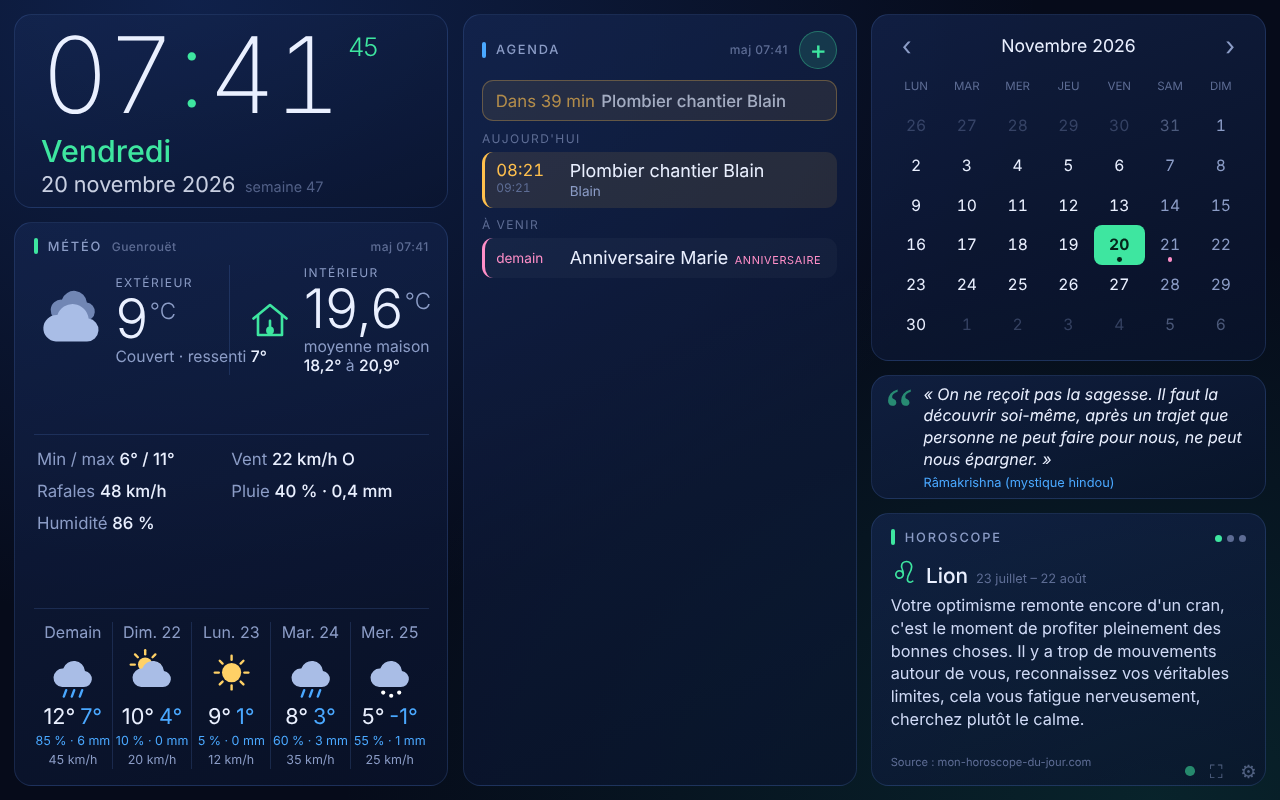
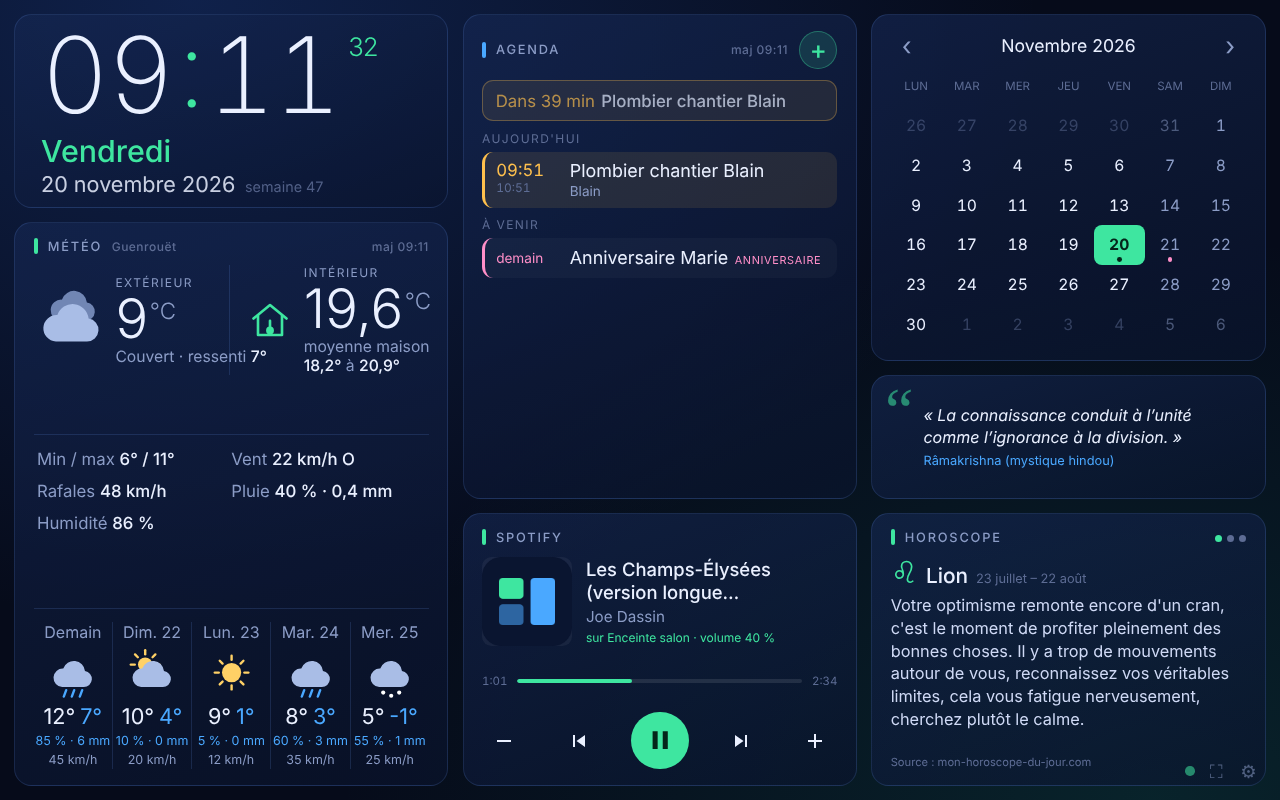
Spotify : lecture en cours et télécommande (moteur + écran), guide d'installation
Claude-Session: https://claude.ai/code/session_01EAZNttDNipT1W6GGXRZqMs

diff --git a/js/spotify.js b/js/spotify.js
@@ -1,0 +1,127 @@
+/* Spotify : lecture en cours et télécommande (via le moteur Google).
+   La musique sort de l'appareil où Spotify joue (tablette, téléphone, enceinte...). */
+var Spotify = (function () {
+  var st = null;          /* dernier état reçu */
+  var timer = null, tick = null;
+  var busy = false;
+
+  var ICON = {
+    prev: '<svg viewBox="0 0 24 24"><path d="M6 6h2v12H6zM9.5 12l8.5 6V6z" fill="currentColor"/></svg>',
+    next: '<svg viewBox="0 0 24 24"><path d="M16 6h2v12h-2zM6 18l8.5-6L6 6z" fill="currentColor"/></svg>',
+    play: '<svg viewBox="0 0 24 24"><path d="M8 5v14l11-7z" fill="currentColor"/></svg>',
+    pause: '<svg viewBox="0 0 24 24"><path d="M6 5h4v14H6zM14 5h4v14h-4z" fill="currentColor"/></svg>',
+    minus: '<svg viewBox="0 0 24 24"><path d="M5 11h14v2H5z" fill="currentColor"/></svg>',
+    plus: '<svg viewBox="0 0 24 24"><path d="M11 5h2v6h6v2h-6v6h-2v-6H5v-2h6z" fill="currentColor"/></svg>',
+    note: '<svg viewBox="0 0 24 24"><path d="M9 17.5a2.5 2.5 0 1 1-2-2.45V5l11-2v11.5a2.5 2.5 0 1 1-2-2.45V6.4l-7 1.3z" fill="currentColor"/></svg>'
+  };
+
+  function mmss(ms) { var s = Math.max(0, Math.floor(ms / 1000)); return Math.floor(s / 60) + ":" + U.pad(s % 60); }
+  function pos() {
+    if (!st || !st.active) return 0;
+    var p = st.progress + (st.playing ? Date.now() - st.at : 0);
+    return Math.min(p, st.duration);
+  }
+
+  function render() {
+    var el = U.$("sp-body");
+    if (!API.isLive()) {
+      el.innerHTML = '<div class="sp-idle">' + ICON.note + '<div>La musique en cours s\'affichera ici une fois Spotify relié.<span class="demo-tag">démo</span></div></div>';
+      return;
+    }
+    if (!st) { el.innerHTML = '<div class="loading">Chargement…</div>'; return; }
+    if (!st.linked) {
+      el.innerHTML = '<div class="sp-idle">' + ICON.note + '<div>Spotify n\'est pas encore relié.<br><small>Voir le guide d\'installation, partie Spotify.</small></div></div>';
+      return;
+    }
+    if (!st.active) {
+      var devs = (st.devices || []).map(function (d) {
+        return '<button class="sp-dev" data-dev="' + U.esc(d.id) + '">' + ICON.play + U.esc(d.name) + "</button>";
+      }).join("");
+      el.innerHTML = '<div class="sp-idle">' + ICON.note + "<div>Rien en lecture." +
+        (devs ? "<br><small>Lancer sur :</small>" : "<br><small>Ouvre Spotify sur un appareil pour le piloter d'ici.</small>") + "</div></div>" +
+        (devs ? '<div class="sp-devs">' + devs + "</div>" : "");
+      return;
+    }
+    var vol = st.device && st.device.volume != null ? st.device.volume : null;
+    el.innerHTML =
+      '<div class="sp-now">' +
+        (st.image ? '<img class="sp-cover" src="' + U.esc(st.image) + '" alt="">' : '<div class="sp-cover sp-nocover">' + ICON.note + "</div>") +
+        '<div class="sp-info"><div class="sp-title">' + U.esc(st.title) + "</div>" +
+        '<div class="sp-artist">' + U.esc(st.artist) + "</div>" +
+        '<div class="sp-device">' + (st.device ? "sur " + U.esc(st.device.name) : "") + (vol != null ? " · volume " + vol + " %" : "") + "</div></div>" +
+      "</div>" +
+      '<div class="sp-bar"><span id="sp-pos">' + mmss(pos()) + '</span><div class="sp-track"><i id="sp-fill" style="width:' + (st.duration ? pos() / st.duration * 100 : 0) + '%"></i></div><span>' + mmss(st.duration) + "</span></div>" +
+      '<div class="sp-ctrl">' +
+        '<button data-cmd="volDown" aria-label="Volume moins">' + ICON.minus + "</button>" +
+        '<button data-cmd="previous" aria-label="Précédent">' + ICON.prev + "</button>" +
+        '<button class="sp-main" data-cmd="' + (st.playing ? "pause" : "play") + '" aria-label="Lecture ou pause">' + (st.playing ? ICON.pause : ICON.play) + "</button>" +
+        '<button data-cmd="next" aria-label="Suivant">' + ICON.next + "</button>" +
+        '<button data-cmd="volUp" aria-label="Volume plus">' + ICON.plus + "</button>" +
+      "</div>";
+  }
+
+  /* Met à jour la barre de progression chaque seconde sans redessiner tout le bloc */
+  function progress() {
+    if (!st || !st.active) return;
+    var p = U.$("sp-pos"), f = U.$("sp-fill");
+    if (!p || !f) return;
+    p.textContent = mmss(pos());
+    f.style.width = (st.duration ? pos() / st.duration * 100 : 0) + "%";
+    if (st.playing && st.duration && pos() >= st.duration) schedule(1500); /* fin du morceau : on recharge l'état */
+  }
+
+  function fetchState() {
+    if (!API.isLive()) { render(); return; }
+    API.get("spotifyState").then(function (d) {
+      st = d; Status.set("spotify", null); render();
+      schedule(d && d.active && d.playing ? 15000 : 60000);
+    }).catch(function (e) {
+      Status.set("spotify", e); render(); schedule(60000);
+    });
+  }
+  function schedule(ms) { if (timer) clearTimeout(timer); timer = setTimeout(fetchState, ms); }
+
+  function send(cmd, extra) {
+    if (busy) return;
+    busy = true;
+    var data = { cmd: cmd };
+    for (var k in (extra || {})) data[k] = extra[k];
+    API.post("spotifyControl", data).then(function () {
+      Status.set("spotify", null);
+    }).catch(function (e) {
+      Status.set("spotify", e);
+      alert("Spotify : " + (e.message || e));
+    }).then(function () {
+      busy = false;
+      schedule(900);
+    });
+  }
+
+  function onClick(e) {
+    var b = e.target.closest ? e.target.closest("button") : null;
+    if (!b || !st) return;
+    var dev = b.getAttribute("data-dev");
+    if (dev) { send("transfer", { deviceId: dev }); return; }
+    var cmd = b.getAttribute("data-cmd");
+    if (!cmd) return;
+    if (cmd === "pause" || cmd === "play") {
+      /* réaction immédiate à l'écran, confirmée ensuite par Spotify */
+      st.progress = pos(); st.at = Date.now(); st.playing = cmd === "play"; render();
+      send(cmd);
+    } else if (cmd === "volUp" || cmd === "volDown") {
+      var v = st.device && st.device.volume != null ? st.device.volume : 50;
+      v = Math.max(0, Math.min(100, v + (cmd === "volUp" ? 10 : -10)));
+      if (st.device) st.device.volume = v;
+      render();
+      send("volume", { value: v });
+    } else send(cmd);
+  }
+
+  function start() {
+    U.$("sp-body").addEventListener("click", onClick);
+    render();
+    fetchState();
+    tick = setInterval(progress, 1000);
+  }
+  return { start: start, refresh: fetchState };
+})();

diff --git a/css/style.css b/css/style.css
@@ -45,7 +45,7 @@ button { font: inherit; color: inherit; background: none; border: 0; cursor: poi
     "clock   agenda cal"
     "weather agenda cal"
     "weather agenda quote"
-    "weather agenda horo";
+    "weather music  horo";
 }
 .c-clock { grid-area: clock; }
 .c-weather { grid-area: weather; }
@@ -53,6 +53,7 @@ button { font: inherit; color: inherit; background: none; border: 0; cursor: poi
 .c-cal { grid-area: cal; }
 .c-horo { grid-area: horo; }
 .c-quote { grid-area: quote; }
+.c-music { grid-area: music; }
 
 .card {
   position: relative;
@@ -166,6 +167,32 @@ button { font: inherit; color: inherit; background: none; border: 0; cursor: poi
 .cal-day .dot.bd { background: #ff8fc8; }
 .cal-day.today .dot { background: #04261a; }
 
+/* ---------- Spotify ---------- */
+#sp-body { flex: 1; display: flex; flex-direction: column; justify-content: space-between; min-height: 0; }
+.sp-now { display: flex; align-items: center; min-height: 0; }
+.sp-cover { width: 5.6rem; height: 5.6rem; border-radius: 0.6rem; flex: none; margin-right: 0.9rem; object-fit: cover; background: rgba(255,255,255,0.05); }
+.sp-nocover { display: flex; align-items: center; justify-content: center; color: var(--green); }
+.sp-nocover svg { width: 2.4rem; height: 2.4rem; }
+.sp-info { min-width: 0; flex: 1; }
+.sp-title { font-size: 1.15rem; font-weight: 500; line-height: 1.25; overflow: hidden; display: -webkit-box; -webkit-line-clamp: 2; -webkit-box-orient: vertical; }
+.sp-artist { font-size: 0.95rem; color: var(--muted); margin-top: 0.15rem; overflow: hidden; text-overflow: ellipsis; white-space: nowrap; }
+.sp-device { font-size: 0.75rem; color: var(--green); margin-top: 0.25rem; overflow: hidden; text-overflow: ellipsis; white-space: nowrap; }
+.sp-bar { display: flex; align-items: center; font-size: 0.72rem; color: var(--dim); font-variant-numeric: tabular-nums; margin: 0.5rem 0 0.2rem; }
+.sp-track { flex: 1; height: 0.25rem; border-radius: 1rem; background: rgba(255,255,255,0.1); margin: 0 0.6rem; position: relative; overflow: hidden; }
+.sp-track i { position: absolute; left: 0; top: 0; bottom: 0; background: var(--green); border-radius: 1rem; }
+.sp-ctrl { display: flex; align-items: center; justify-content: space-between; }
+.sp-ctrl button { width: 2.8rem; height: 2.8rem; border-radius: 50%; color: var(--text); display: flex; align-items: center; justify-content: center; }
+.sp-ctrl button svg { width: 1.5rem; height: 1.5rem; }
+.sp-ctrl button:active { background: rgba(255,255,255,0.1); }
+.sp-ctrl .sp-main { width: 3.6rem; height: 3.6rem; background: var(--green); color: #04261a; }
+.sp-ctrl .sp-main svg { width: 1.9rem; height: 1.9rem; }
+.sp-idle { display: flex; align-items: center; font-size: 1rem; color: var(--muted); line-height: 1.4; }
+.sp-idle > svg { width: 2.6rem; height: 2.6rem; color: var(--green); flex: none; margin-right: 0.8rem; }
+.sp-idle small { color: var(--dim); font-size: 0.85rem; }
+.sp-devs { display: flex; flex-wrap: wrap; overflow: hidden; }
+.sp-dev { display: flex; align-items: center; font-size: 0.9rem; padding: 0.45rem 0.8rem 0.45rem 0.5rem; margin: 0.4rem 0.5rem 0 0; border-radius: 2rem; background: var(--green-soft); color: var(--green); border: 1px solid rgba(62,230,160,.35); }
+.sp-dev svg { width: 1.1rem; height: 1.1rem; margin-right: 0.3rem; }
+
 /* ---------- Citation du jour ---------- */
 .c-quote { justify-content: center; padding-left: 3.2rem; }
 .qt-mark { position: absolute; left: 0.8rem; top: 0.2rem; font-size: 4rem; line-height: 1; color: var(--green); opacity: 0.55; font-family: Georgia, serif; }
@@ -242,6 +269,7 @@ button { font: inherit; color: inherit; background: none; border: 0; cursor: poi
       "clock   clock"
       "weather weather"
       "agenda  cal"
+      "music   music"
       "quote   quote"
       "horo    horo";
   }
@@ -249,5 +277,5 @@ button { font: inherit; color: inherit; background: none; border: 0; cursor: poi
   .c-agenda { max-height: 26rem; }
 }
 @media (max-width: 560px) {
-  .grid { grid-template-columns: 1fr; grid-template-areas: "clock" "weather" "agenda" "cal" "quote" "horo"; }
+  .grid { grid-template-columns: 1fr; grid-template-areas: "clock" "weather" "agenda" "cal" "music" "quote" "horo"; }
 }

diff --git a/index.html b/index.html
@@ -8,7 +8,7 @@
 <title>Tableau de bord</title>
 <link rel="manifest" href="manifest.json">
 <link rel="icon" href="icons/icon-192.png">
-<link rel="stylesheet" href="css/style.css?v=5">
+<link rel="stylesheet" href="css/style.css?v=6">
 </head>
 <body>
 <main class="grid" id="app">
@@ -30,6 +30,11 @@
       <button class="btn-round" id="ag-add" aria-label="Ajouter un événement">+</button></header>
     <div id="ag-alert"></div>
     <div class="ag-scroll" id="ag-body"><div class="loading">Chargement…</div></div>
+  </section>
+
+  <section class="card c-music" id="w-music">
+    <header class="card-h"><span class="bar"></span>Spotify</header>
+    <div id="sp-body"><div class="loading">Chargement…</div></div>
   </section>
 
   <section class="card c-cal" id="w-cal">
@@ -66,15 +71,16 @@
   <div class="modal-box" id="modal-box"></div>
 </div>
 
-<script src="js/config.js?v=5"></script>
-<script src="js/util.js?v=5"></script>
-<script src="js/api.js?v=5"></script>
-<script src="js/clock.js?v=5"></script>
-<script src="js/weather.js?v=5"></script>
-<script src="js/agenda.js?v=5"></script>
-<script src="js/horoscope.js?v=5"></script>
-<script src="js/quote.js?v=5"></script>
-<script src="js/settings.js?v=5"></script>
-<script src="js/main.js?v=5"></script>
+<script src="js/config.js?v=6"></script>
+<script src="js/util.js?v=6"></script>
+<script src="js/api.js?v=6"></script>
+<script src="js/clock.js?v=6"></script>
+<script src="js/weather.js?v=6"></script>
+<script src="js/agenda.js?v=6"></script>
+<script src="js/horoscope.js?v=6"></script>
+<script src="js/quote.js?v=6"></script>
+<script src="js/spotify.js?v=6"></script>
+<script src="js/settings.js?v=6"></script>
+<script src="js/main.js?v=6"></script>
 </body>
 </html>

diff --git a/js/settings.js b/js/settings.js
@@ -20,7 +20,7 @@ var Settings = (function () {
       return '<label><input type="checkbox" value="' + k + '"' + (g.signes.indexOf(k) >= 0 ? " checked" : "") + "> " + Horoscope.SIGNES[k].n + "</label>";
     }).join("");
     var html = "<h2>Réglages</h2>" +
-      "<h3>Moteur Google (agenda, horoscope, citation, Cozytouch)</h3>" +
+      "<h3>Moteur Google (agenda, horoscope, citation, Cozytouch, Spotify)</h3>" +
       '<div class="field"><label>Adresse du moteur (URL Apps Script se terminant par /exec)</label><input type="url" id="s-url" value="' + U.esc(be.url || "") + '"></div>' +
       '<div class="field"><label>Code secret</label><input type="text" id="s-token" value="' + U.esc(be.token || "") + '" autocomplete="off"></div>' +
       '<p class="note" id="s-test"></p>' +

diff --git a/js/main.js b/js/main.js
@@ -6,6 +6,7 @@
   Agenda.start();
   Horoscope.start();
   Quote.start();
+  Spotify.start();
 
   U.$("btn-settings").onclick = Settings.open;
 

diff --git a/apps-script/INSTALLATION.md b/apps-script/INSTALLATION.md
@@ -80,3 +80,39 @@ Quand le code du moteur change :
 3. Clique sur le **crayon**, choisis **Version : Nouvelle version**, puis **Déployer**.
 
 L'adresse `/exec` reste la même : rien à changer sur la tablette.
+
+## Spotify (facultatif, Spotify Premium obligatoire)
+
+Le tableau affiche la musique en cours et sert de télécommande : lecture, pause, morceau suivant ou précédent, volume.
+La musique sort de l'appareil où Spotify joue : tablette, téléphone, enceinte.
+Fais ces étapes sur un ordinateur, après avoir mis à jour le moteur avec la dernière version du code.
+
+### 1. Créer l'application Spotify (5 minutes)
+
+1. Ouvre https://developer.spotify.com/dashboard et connecte-toi avec ton compte Spotify Premium.
+   Accepte les conditions si elles s'affichent.
+2. Clique sur **Create app** et remplis :
+   1. App name : `Tableau de bord`
+   2. App description : `Tableau de bord personnel`
+   3. Redirect URIs : colle l'**URL de ton moteur** (celle qui se termine par `/exec`), puis clique sur **Add**.
+   4. Coche **Web API**.
+   5. Coche l'acceptation des conditions, puis **Save**.
+3. Sur la page de l'application, clique sur **Settings**.
+   Note le **Client ID**, puis clique sur **View client secret** et note le **Client secret**.
+
+### 2. Donner ces deux codes au moteur
+
+1. Dans Apps Script, clique sur la **roue dentée**, puis **Propriétés du script**.
+2. Ajoute deux propriétés :
+   1. `SPOTIFY_CLIENT_ID` : le Client ID.
+   2. `SPOTIFY_CLIENT_SECRET` : le Client secret.
+3. Clique sur **Enregistrer les propriétés du script**.
+
+### 3. Relier ton compte Spotify (une seule fois)
+
+1. Dans ton navigateur, ouvre l'adresse de ton moteur en ajoutant à la fin `?action=spotifyLogin&token=` suivi de ton code secret.
+   Exemple : `https://script.google.com/macros/s/AKfy…/exec?action=spotifyLogin&token=8d49…`
+2. La page affiche une adresse dans un cadre gris. Vérifie qu'elle est **exactement** celle que tu as mise dans les Redirect URIs de Spotify.
+   Si elle est différente, ajoute dans les Propriétés du script `SPOTIFY_REDIRECT` avec l'adresse que tu as mise chez Spotify, puis recharge la page.
+3. Clique sur **Se connecter à Spotify**, puis accepte.
+4. La page « Spotify est relié ✓ » s'affiche. Sur la tablette, le bloc Spotify montre la musique en cours en moins d'une minute.

diff --git a/README.md b/README.md
@@ -13,12 +13,13 @@ Tableau de bord personnel pour une Samsung Galaxy Tab A 10.1 (SM-T580) en mode p
 5. Calendrier mensuel.
 6. Horoscope du jour (Lion, Sagittaire, Vierge), source mon-horoscope-du-jour.com.
 7. Citation du jour avec son auteur, source citationdujour.fr.
+8. Spotify : musique en cours et télécommande (Premium obligatoire).
 
 ## Architecture
 
 1. `index.html`, `css/`, `js/` : l'affichage, en JavaScript simple sans compilation, hébergé sur GitHub Pages.
 2. `apps-script/Code.gs` : le moteur, à installer dans Google Apps Script (voir `apps-script/INSTALLATION.md`).
-   Il lit et modifie Google Agenda, récupère l'horoscope et la citation du jour, et lit Cozytouch.
+   Il lit et modifie Google Agenda, récupère l'horoscope et la citation du jour, lit Cozytouch et pilote Spotify.
 3. L'adresse du moteur et son code secret sont saisis dans les réglages de la tablette et n'apparaissent jamais dans ce dépôt.
 
 Sans moteur configuré, l'application fonctionne en mode démo (voyant orange).
